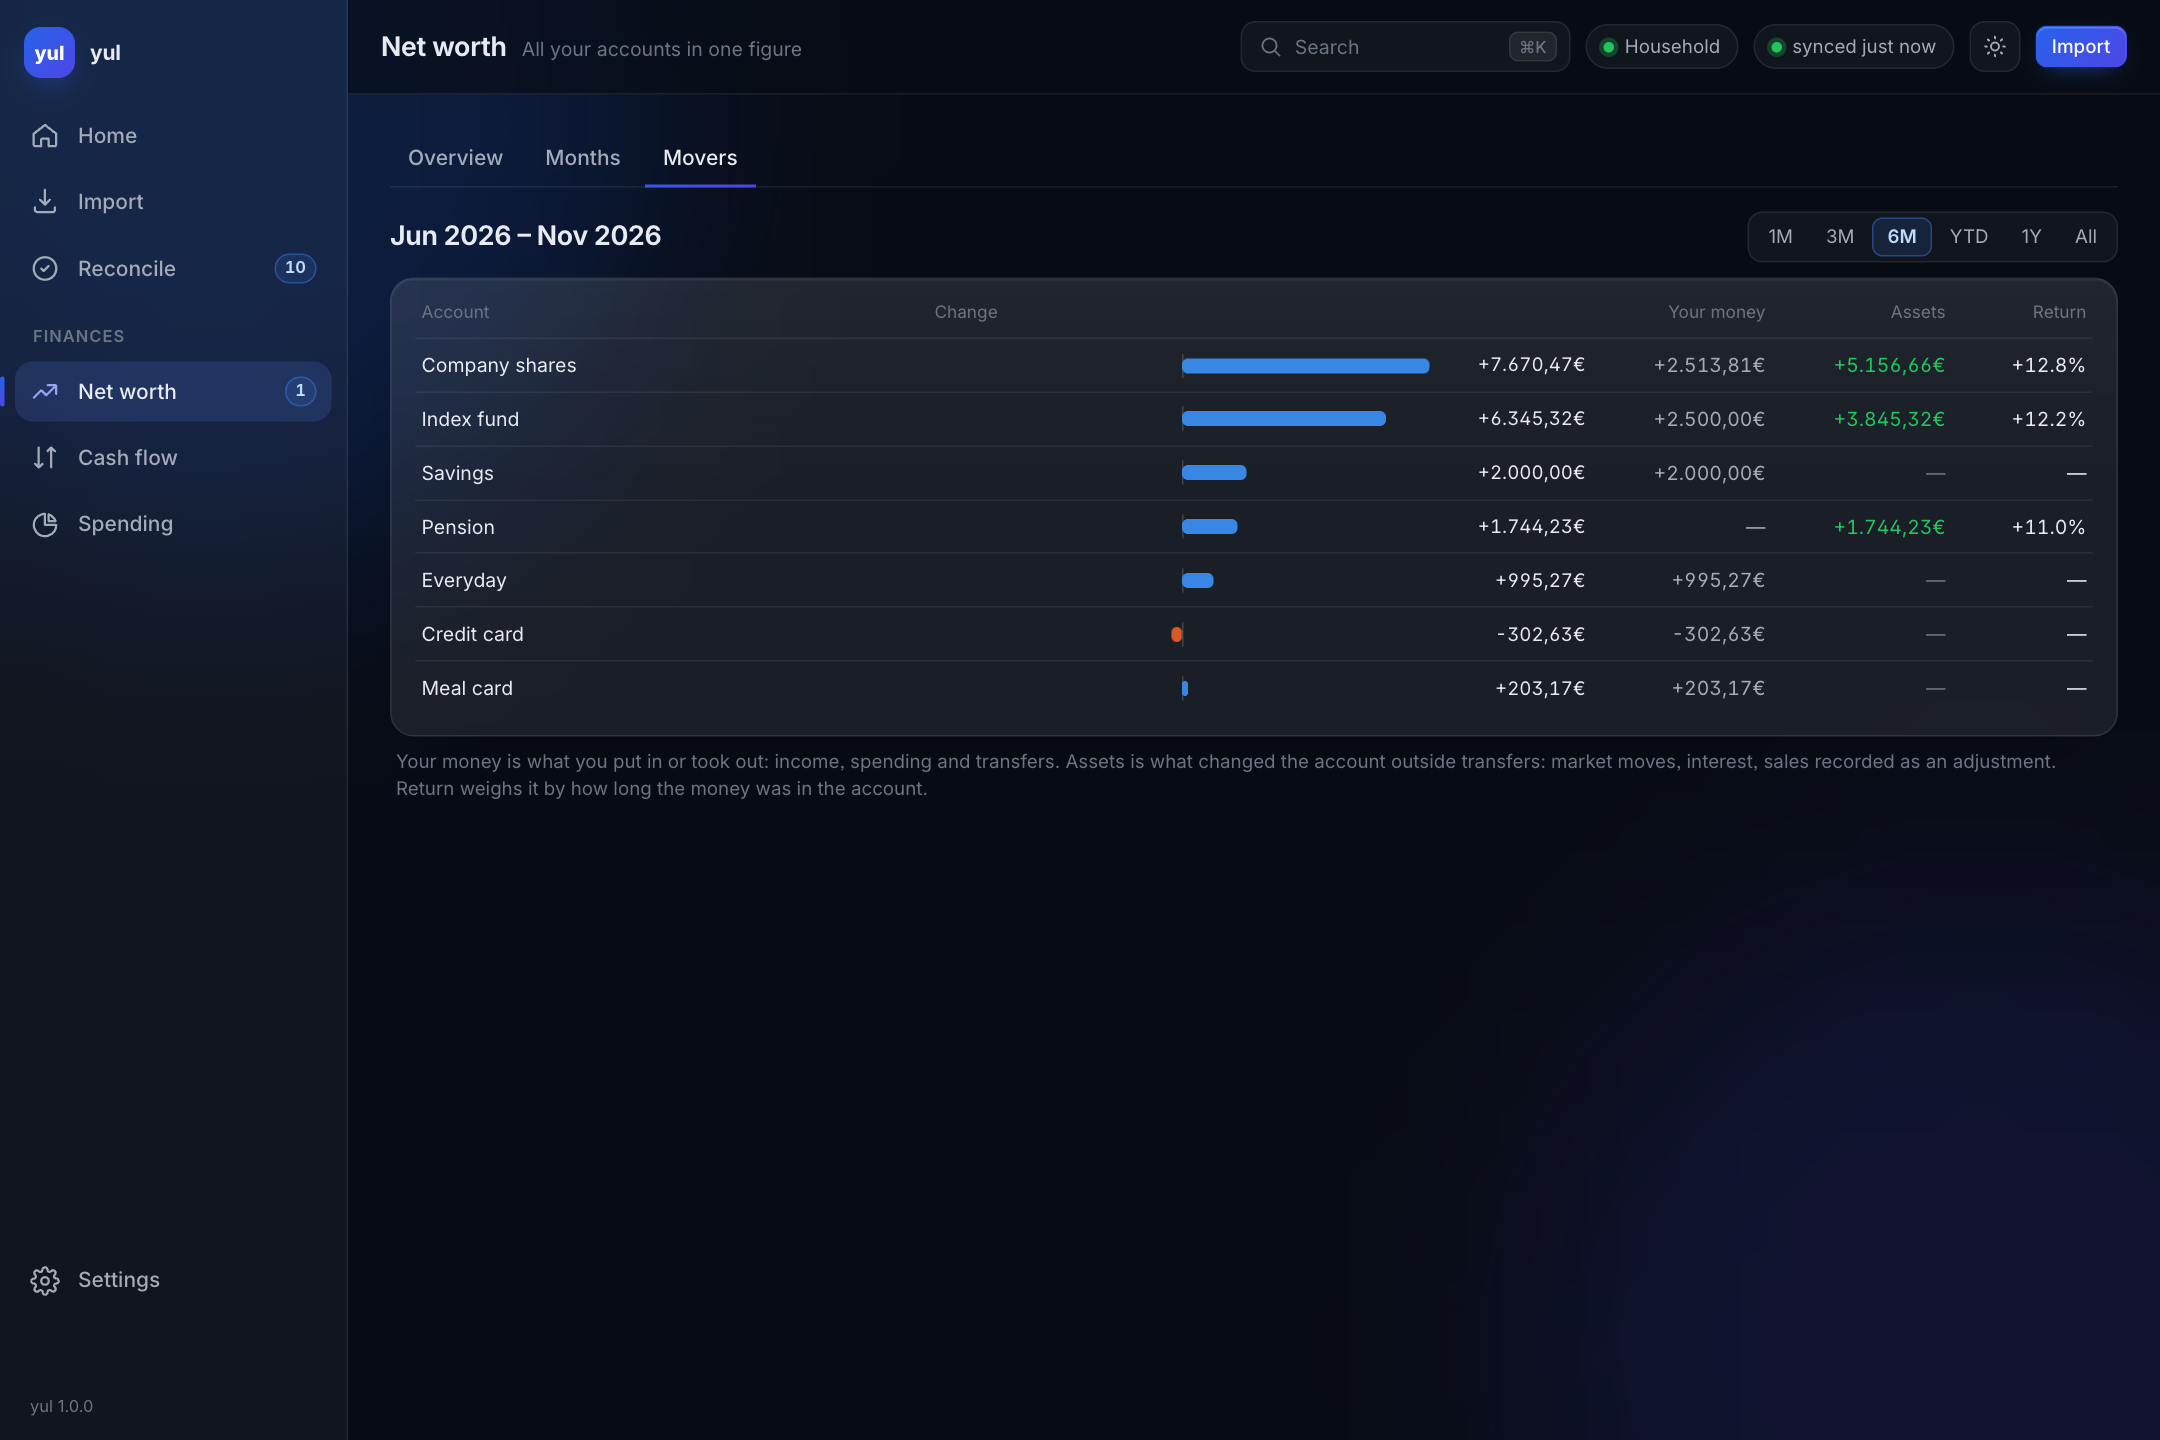
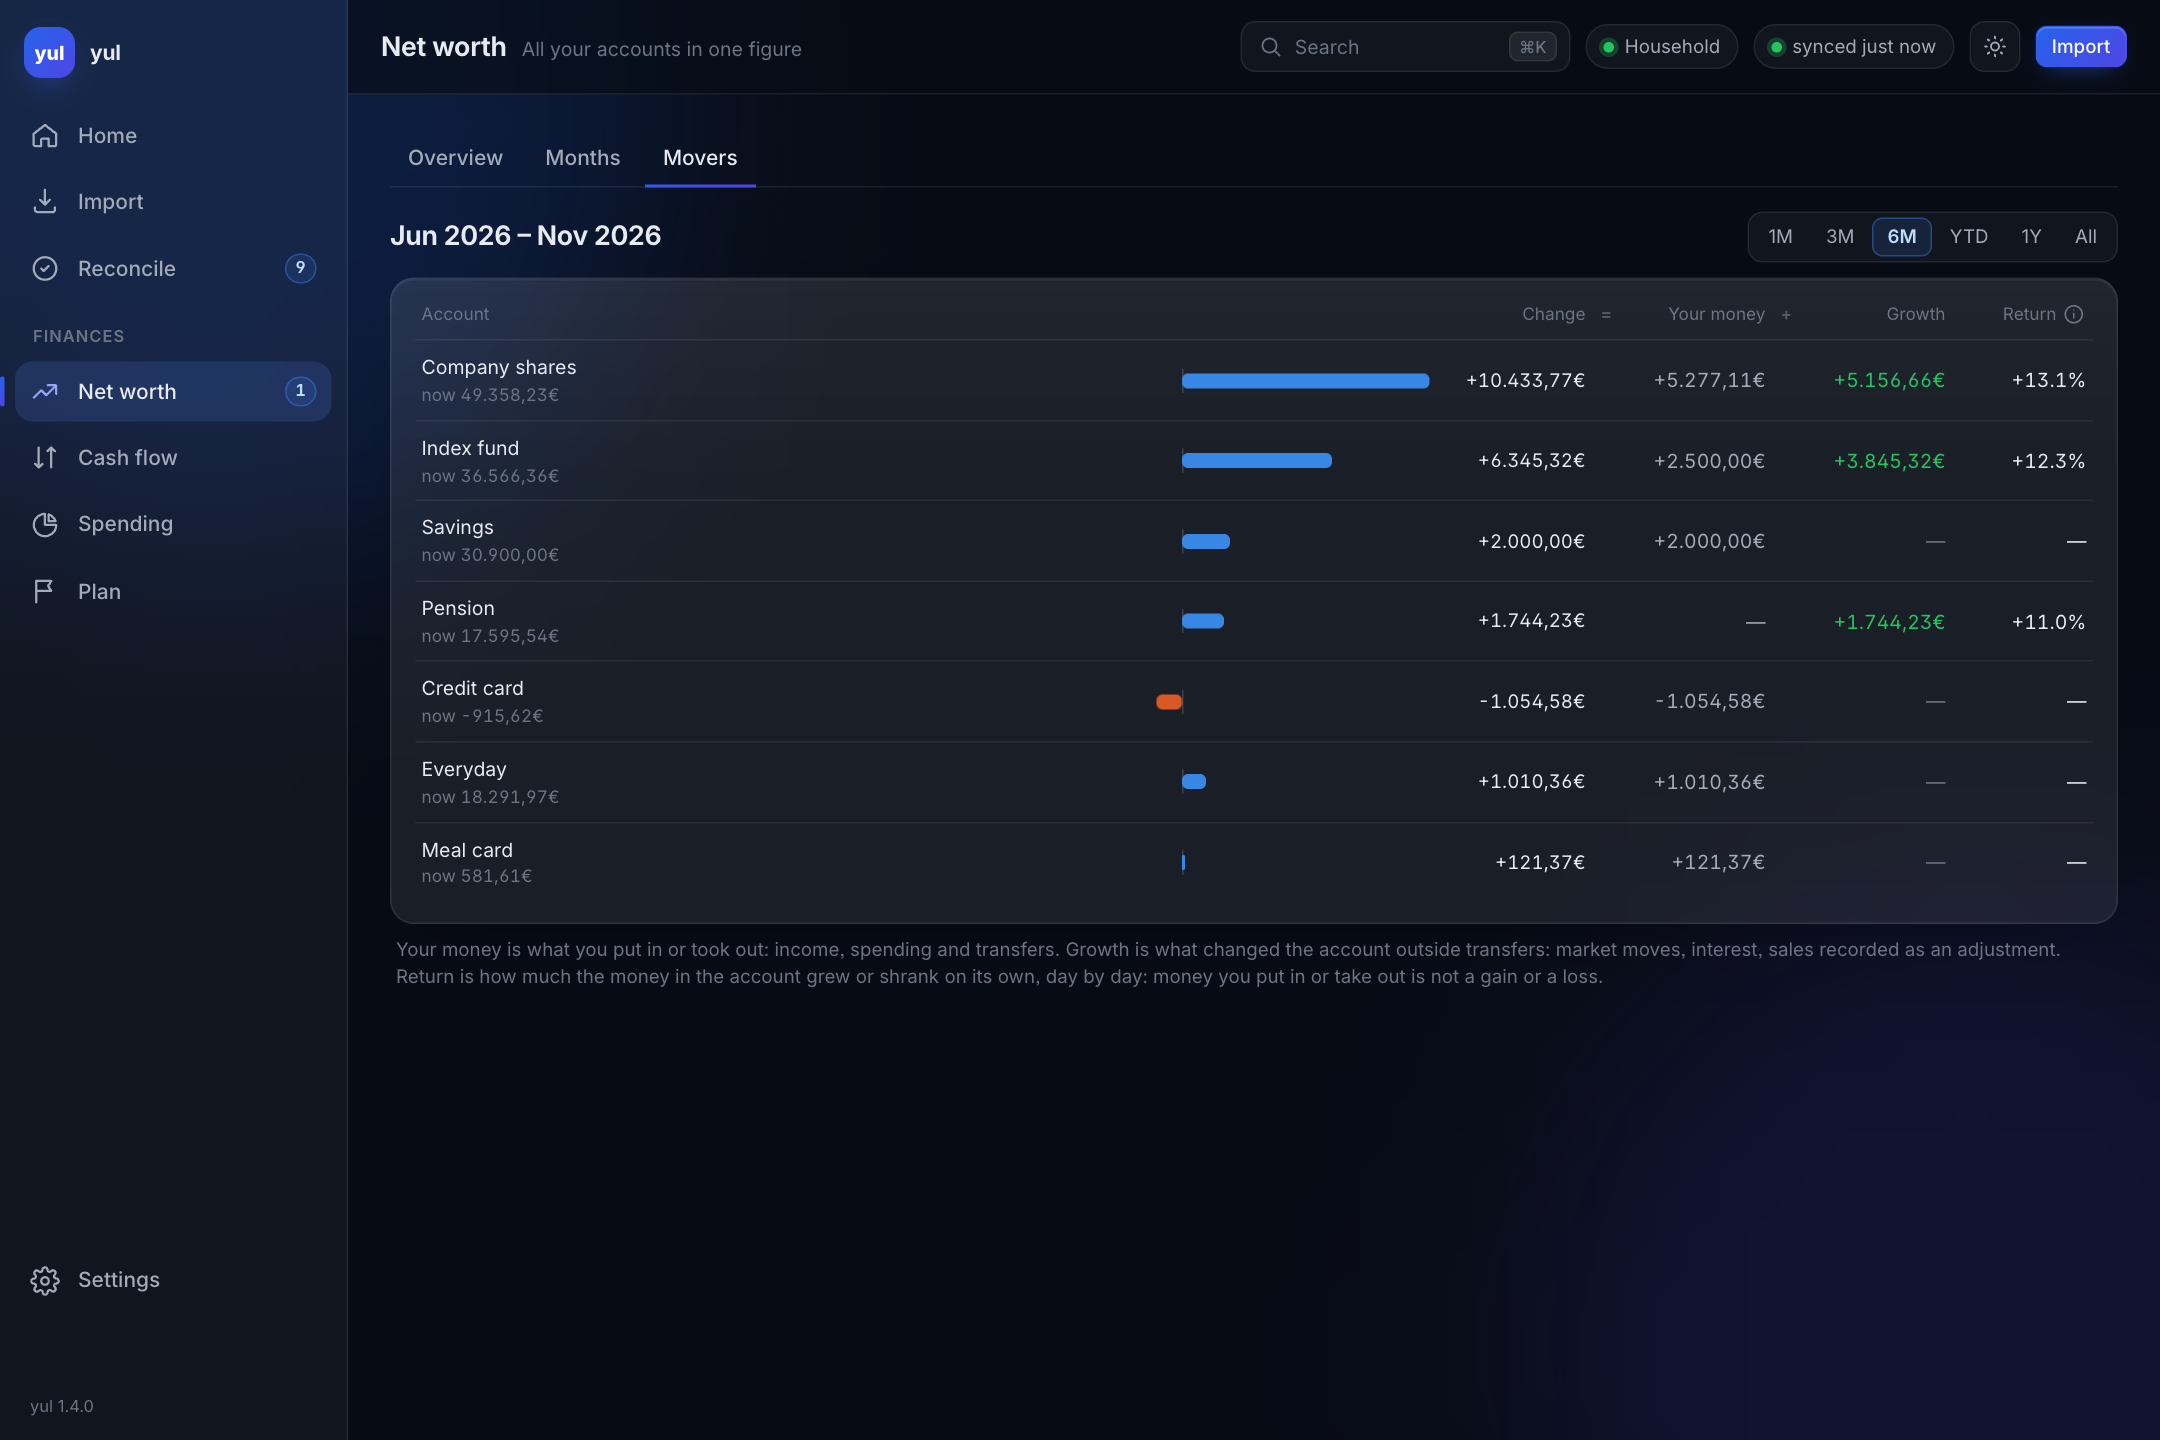
Put Change over its figure in Movers and say what each account holds (#167)
* Put Change over its figure in Movers and say what each account holds

The Change header sat at the start of the bar column, far from the figure,
so the change read as the account's balance. It now sits over the figure,
the header reads Change = Your money + Growth, and a faint line under each
name says what the account held at the end of the range. On a phone the bar
gives its room to the name.

* Name the changelog fragment after its PR

diff --git a/src/ynab_unlinked/web/static/yul.css b/src/ynab_unlinked/web/static/yul.css
@@ -224,6 +224,8 @@ body::after { background: var(--bg-blob-2); bottom: -240px; right: -180px; }
 .yul-small { font-size: 12.5px; }
 .yul-mono { font-family: var(--mono); font-size: 12px; }
 .yul-num { font-variant-numeric: tabular-nums; }
+/* Read by screen readers, not drawn */
+.yul-sr-only { position: absolute; width: 1px; height: 1px; overflow: hidden; clip: rect(0 0 0 0); white-space: nowrap; }
 /* Figures: Inter's open digits, the 4, 6 and 9 read faster in a column of money */
 .yul-num, .yul-hero, .yul-tile-v, .yul-nw-figure, .yul-month-k, .yul-month-s, .yul-attn-k, .yul-nav-badge {
   font-feature-settings: "calt", "ss01", "ss03";
@@ -1186,6 +1188,12 @@ body.body--light .yul-imp-body { background: rgba(15, 23, 42, .03); }
 .yul-nwm-dbar > i { position: absolute; top: 0; height: 10px; border-radius: 4px; animation: yul-fade .4s var(--ease) both; }
 .yul-nwm-dbar > i.up { background: var(--series-1); }
 .yul-nwm-dbar > i.down { background: var(--series-2); }
+/* The account, and what it held at the end of the range under it */
+.yul-nwm-acct { display: flex; flex-direction: column; gap: 1px; min-width: 0; }
+.yul-nwm-held { color: var(--text-3); font-size: 11.5px; overflow: hidden; text-overflow: ellipsis; white-space: nowrap; }
+/* Change = Your money + Growth: each sign at the start of its column, its title at the end */
+.yul-nwm-term { display: flex; align-items: baseline; justify-content: space-between; gap: 6px; }
+.yul-nwm-op { color: var(--text-3); opacity: .7; font-weight: 600; }
 .yul-nwp-move {
   display: flex; gap: 10px; align-items: flex-start; padding: 7px 0;
   border-bottom: 1px solid var(--hair); font-size: 13px;
@@ -1426,6 +1434,10 @@ body.body--light .yul-imp-body { background: rgba(15, 23, 42, .03); }
   .yul-tab { white-space: nowrap; }
   .yul-nwm-head > .yul-grow, .yul-nw-head > .yul-grow, .yul-rec-head > .yul-grow { flex-basis: 100%; }
   .yul-nwm-card > .yul-row { flex-wrap: wrap; gap: 2px 10px; }
+  /* Movers: a bar a few pixels wide says nothing; its room goes to the name */
+  .yul-nwm-row { grid-template-columns: minmax(0, 1fr) auto 64px; }
+  .yul-nwm-change { grid-template-columns: auto; }
+  .yul-nwm-change > :first-child { display: none; }
   .yul-pills { max-width: 100%; overflow-x: auto; scrollbar-width: none; }
   /* A flow's footer: what it counts on a line of its own, then the buttons, the primary one wide */
   .yul-foot { bottom: calc(64px + env(safe-area-inset-bottom)); flex-wrap: wrap; gap: 10px; }

diff --git a/src/ynab_unlinked/web/views/networth/periods.py b/src/ynab_unlinked/web/views/networth/periods.py
@@ -218,18 +218,27 @@ def movers_tab(
 ) -> None:
     """One row per counted account, largest change first, with a bar around zero."""
     widest = words.spread(period.accounts) or 1
+    today = dt.date.today()
     with glass_card().classes("yul-nwm-card").mark("movers"):
-        with ui.element("div").classes("yul-nwm-row head"):
+        with ui.element("div").classes("yul-nwm-row head").mark("movers-head") as head:
+            head.props["title"] = words.CHANGE_SUM
             ui.label("Account")
-            ui.label("Change")
-            ui.label("Your money").classes("yul-nwm-r")
-            ui.label("Growth").classes("yul-nwm-r")
+            # Over the figure, not the bar; the signs read the row as a sum, which the columns
+            # hidden on a phone take with them
+            with ui.element("div").classes("yul-nwm-change"):
+                ui.element("div")
+                ui.label("Change").classes("yul-nwm-r").mark("head-change")
+            for sign, title in (("=", "Your money"), ("+", "Growth")):
+                with ui.element("div").classes("yul-nwm-r yul-nwm-term"):
+                    ui.label(sign).classes("yul-nwm-op").props('aria-hidden="true"')
+                    ui.label(title)
             with ui.element("div").classes("yul-nwm-r yul-row yul-info-row yul-nwm-info"):
                 ui.label("Return").props["title"] = (
                     "How the account itself did, shown per year when it covers more than a "
                     "year. Settings › Net worth picks the accounts."
                 )
                 explain_button(words.RETURN_TITLE, explain, marker="return-info")
+            ui.label(words.CHANGE_SUM).classes("yul-sr-only")
         for move in period.accounts:
             if not move.change and not move.start_balance and move.account_id in closed:
                 continue  # closed before the range: nothing to show
@@ -241,10 +250,18 @@ def movers_tab(
                 else f"left:{50 - width:.2f}%;width:{width:.2f}%"
             )
             with ui.element("div").classes("yul-nwm-row").mark(f"mover-{move.account_id}"):
-                with ui.element("div").classes("yul-nwm-name"):
-                    ui.label(names.get(move.account_id, "Account"))
-                    if move.account_id in closed:
-                        closed_pill()
+                with ui.element("div").classes("yul-nwm-acct"):
+                    with ui.element("div").classes("yul-nwm-name"):
+                        ui.label(names.get(move.account_id, "Account"))
+                        if move.account_id in closed:
+                            closed_pill()
+                    held = words.end_balance_text(
+                        move, period.end, today, formatter, move.account_id in closed
+                    )
+                    if held is not None:
+                        ui.label(held).classes("yul-nwm-held yul-num").mark(
+                            f"held-{move.account_id}"
+                        )
                 with ui.element("div").classes("yul-nwm-change"):
                     with ui.element("div").classes("yul-nwm-dbar"):
                         ui.element("i").classes("up" if up else "down").style(place)

diff --git a/tests/web/views/test_networth_flows.py b/tests/web/views/test_networth_flows.py
@@ -223,16 +223,18 @@ async def test_the_movers_tab_splits_each_account_into_your_money_and_assets(
     assert texts(user, f"mover-{CHECKING}").split() == [
         "💶",
         "Checking",
+        "now",
+        "8,600.00€",
         "+6,100.00€",
         "+6,100.00€",
         "—",
         "—",
     ]
     fund = texts(user, f"mover-{FUND}").split()
-    assert fund[:5] == ["📈", "Fund", "+600.00€", "+1,000.00€", "-400.00€"]
-    assert fund[5].startswith("−")
+    assert fund[:7] == ["📈", "Fund", "now", "40,600.00€", "+600.00€", "+1,000.00€", "-400.00€"]
+    assert fund[7].startswith("−")
     # It held money the whole range: no mark, no note about one
-    assert not fund[5].endswith("*")
+    assert not fund[7].endswith("*")
     await user.should_not_see(marker="part-note")
     assert texts(user, f"mover-{OLD}").split()[:5] == [
         "💰",
@@ -241,6 +243,48 @@ async def test_the_movers_tab_splits_each_account_into_your_money_and_assets(
         "closed",
         "-5,000.00€",
     ]
+    # Closed and empty: the pill says it, no "now 0.00€" under it
+    await user.should_not_see(marker=f"held-{OLD}")
+
+
+async def test_the_movers_header_reads_change_as_your_money_plus_growth(
+    synced: Store, no_sync, user: User
+):
+    await user.open("/networth?tab=movers")
+    await user.should_see(marker="movers-head", retries=20)
+
+    head = user.find(marker="movers-head").elements.pop()
+    assert texts(user, "movers-head").split()[:7] == [
+        "Account",
+        "Change",
+        "=",
+        "Your",
+        "money",
+        "+",
+        "Growth",
+    ]
+    # The signs are drawn only; the sum is said once, for screen readers and on hover
+    assert head.props["title"] == "Change = Your money + Growth"
+    assert "Change = Your money + Growth" in texts(user, "movers-head")
+
+
+@pytest.mark.parametrize(
+    ("end", "balance", "closed", "expected"),
+    [
+        (dt.date(2026, 11, 22), 47_633_210, False, "now 47,633.21€"),
+        (dt.date(2026, 10, 31), 47_633_210, False, "on 31 Oct: 47,633.21€"),
+        (dt.date(2025, 12, 31), -915_620, False, "on 31 Dec 2025: -915.62€"),
+        (dt.date(2026, 11, 22), 0, False, "now 0.00€"),
+        (dt.date(2026, 11, 22), 0, True, None),
+    ],
+    ids=["range ends today", "ends earlier", "another year", "open and empty", "closed and empty"],
+)
+def test_what_an_account_held_at_the_end_of_the_range(end, balance, closed, expected):
+    move = AccountMove(FUND, 1_000_000, balance, Flows(), None)
+
+    held = flows.end_balance_text(move, end, dt.date(2026, 11, 22), FORMATTER, closed)
+
+    assert held == expected
 
 
 async def test_the_i_of_return_tells_how_it_and_growth_can_point_different_ways(

diff --git a/src/ynab_unlinked/web/views/networth/flows.py b/src/ynab_unlinked/web/views/networth/flows.py
@@ -26,6 +26,7 @@ from ynab_unlinked.store import Store
 from ynab_unlinked.web import finances
 from ynab_unlinked.web.finances import RANGE_MONTHS, months_range, period_title
 from ynab_unlinked.web.views.networth.data import Snapshot, signed
+from ynab_unlinked.web.wording import short_date
 
 TABS = {"overview": "Overview", "months": "Months", "movers": "Movers"}
 
@@ -96,6 +97,25 @@ def why(move: AccountMove, formatter: Formatter) -> str:
 def moved(period: Period, limit: int = TOP_ACCOUNTS) -> list[AccountMove]:
     """The accounts that moved most, either way; the ones that did not move are left out."""
     return [move for move in period.accounts if move.change or move.flows.transfers][:limit]
+
+
+CHANGE_SUM = "Change = Your money + Growth"
+"""The header row of Movers says it with signs between its titles; this is its hover and
+what a screen reader hears."""
+
+
+def end_balance_text(
+    move: AccountMove, end: dt.date, today: dt.date, formatter: Formatter, closed: bool
+) -> str | None:
+    """What the account held at the end of the range, under its name: `now 47,633.21€`, or
+    `on 31 Oct: 47,633.21€` for a range that ends before today. None for a closed account
+    left empty: its closed pill says it."""
+    if closed and not move.end_balance:
+        return None
+    amount = formatter.format_amount_milli(move.end_balance)
+    if end >= today:
+        return f"now {amount}"
+    return f"on {short_date(end, today)}: {amount}"
 
 
 PART_MARK = "*"

diff --git a/.claude/skills/yul-web-design/DESIGN.md b/.claude/skills/yul-web-design/DESIGN.md
@@ -299,15 +299,22 @@ is about today's balances, leaves them out.
   "Came in from" (five payees: income is by payee) and "Spent most on" (five categories).
   One column under 860px. A sync that changes nothing does not redraw the tab.
 - **Movers**: one row per counted account (closed ones that held money in the range too),
-  largest change first: name, a bar around a centre line (series 1 up, series 2 down) with
-  the change, "Your money" (what went in or out: income, spending, transfers), "Growth" (good
-  or bad) and "Return", how much the money in the account grew or shrank on its own, day by
-  day (each day's gain on what it held, compounded), per year when it covers more than a year
+  largest change first: name, with a faint line under it saying what the account held at
+  the end of the range ("now 47,633.21€", "on 31 Oct: 47,633.21€" for a range that ends
+  earlier; a closed, empty account has its closed pill instead), a bar around a centre line
+  (series 1 up, series 2 down) with the change, "Your money" (what went in or out: income,
+  spending, transfers), "Growth" (good or bad) and "Return". The header "Change" sits right
+  aligned over the change figure, not over the bar, and the header reads as the sum it is:
+  "Change = Your money + Growth", each faint sign at the start of its column (drawn only;
+  the row's hover and a line for screen readers say the sum). "Return" is how much the money
+  in the account grew or shrank on its own, day by day (each day's gain on what it held,
+  compounded), per year when it covers more than a year
   ("+6.1%", "−8.9%/yr", "—" for an account whose return is not followed). It leaves out the
   days the account held nothing; a return that covers less than the range is marked
   "+32.8%*", its hover says "Held money on 205 of the 315 days of the range", and a second
   faint line explains the mark. A faint line under the card explains the three columns.
-  Under 860px the two middle columns hide.
+  Under 860px the two middle columns hide, their signs with them; under 640px the bar goes
+  too and its room goes to the name.
 - **How Return is measured**: the "i" next to Return opens a dialog (`dialog_box`, wider:
   560px) that tells a made-up account in four steps, Back (ghost) and Next (primary; Done on
   the last): 1,000 put in, it grows 50%, 8,500 more put in, it falls 20%. A chart shows what

diff --git a/.claude/skills/yul-web-design/ARCHITECTURE.md b/.claude/skills/yul-web-design/ARCHITECTURE.md
@@ -1507,7 +1507,8 @@ point by `dataIndex`, or the x axis by `value`, the month as `YYYY-MM`), `other-
 panel, and the picked month goes back to the whole range). Period
 panel: `period-panel`, `period-title` and `period-clear` (a picked month only), `bridge`,
 `step-{income|spending|assets|other|net}`, `moved-{account_id}`, `came-in`, `spent-on`.
-Movers: `movers`, `mover-{account_id}`.
+Movers: `movers`, `movers-head` (the header row), `head-change`, `mover-{account_id}`,
+`held-{account_id}` (what it held at the end of the range; none on a closed, empty account).
 Account drawer: `nw-drawer`, `drawer-chart`, `drawer-tx` (one per last transaction) and
 `drawer-amount` (its amount, `components.amount`).
 

diff --git a/changelog/167.bugfix.md b/changelog/167.bugfix.md
@@ -1,0 +1,1 @@
+Net worth › Movers puts "Change" over the change figure, shows that it is Your money + Growth, and says under each account what it holds now.
